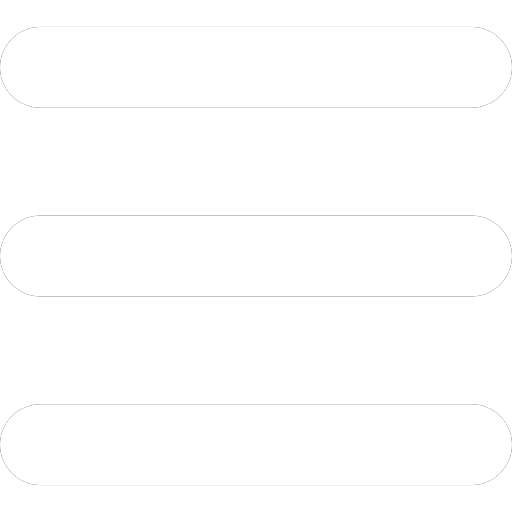
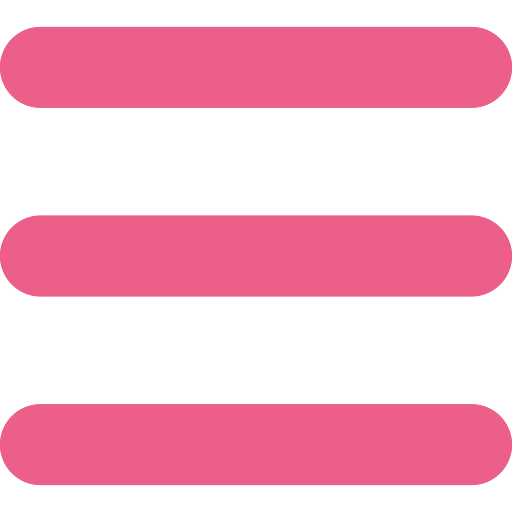
add new content and about page

diff --git a/_site/index.html b/_site/index.html
@@ -5,44 +5,41 @@
      <meta http-equiv="X-UA-Compatible" content="IE=edge">
      <meta name="viewport" content="width=device-width, initial-scale=1.0">
      <title>Katie Hoang's Portfolio</title>
-     <link rel="stylesheet" href="./css/style.css">
+     <link rel="stylesheet" href="../css/style.css">
      <link rel="icon" type="image/x-icon" href="image/moonWand.png">
 </head>
 <body>
      <header class="header">
           <span class="nav"></span>
-          <img src="./img/moonWand.png" alt="illustration of Star Protector">
-          <div class="menu">
-               <h1>ABOUT</h1>
-               <h1>PROJECTS</h1>
-               <h1>CONTACT</h1>
-          </div>
+<a class="homeBtn" href="../index.html"><span class="homeBtn"></span></a>
+<div class="menu">
+     <h1><a href="../about/index.html">ABOUT</a></h1>
+     <h1>PROJECTS</h1>
+     <h1>CONTACT</h1>
+</div>
      </header>
      <div class="main">
-            <div class="left">
-          <div class="left-1" id="1">
-               <h1>Star Protector</h1>
-          </div>
-          <div class="left-2" id="2">
-               <h1>Magical Wands</h1>
-          </div>
-          <div class="left-3" id="3">
-               <h1>Powerpuff Girls</h1>
-          </div>     
+          <div class="left">
+     <div class="left-1" id="1">
+          <h1>Star Protector</h1>
      </div>
-     <div class="right">
-          <div class="right-1" data-right="1">
-               <img src="./img/moonWand.png" alt="illustration of Star Protector">
-          </div>
-          <div class="right-2" data-right="2">
-               Item 2
-          </div>
-          <div class="right-3" data-right="3">
-               Item 3
-          </div>  
+     <div class="left-2" id="2">
+          <h1>Magical Wands</h1>
      </div>
+     <div class="left-3" id="3">
+          <h1>Powerpuff Girls</h1>
+     </div>     
+</div>
+<div class="right">
+     <div class="right-1" data-right="1">
+     </div>
+     <div class="right-2" data-right="2">
+     </div>
+     <div class="right-3" data-right="3">
+     </div>  
+</div>
 
      </div>
-     <script src="./js/script.js"></script>
+     <script src="../js/script.js"></script>
 </body>
 </html>

diff --git a/_site/css/style.css b/_site/css/style.css
@@ -8,7 +8,7 @@
   }
 body {
     font-family: Harlow, sans-serif;
-    color: #f98787;
+    color: #f2f2f3;
     margin: 0;
     background-color: black;
 }
@@ -73,14 +73,26 @@ h1{
     align-items: center;
 }
 
-.left-1, .right-1 {
-    background-color: #172760;
+.left-1{
+    background-color: #eb5f88;
 }
-.left-2, .right-2 {
-    background-color: #ECB448;
+.left-2{
+    background-color: #4cc7e5;
 }
-.left-3, .right-3 {
-    background-color: #788159;
+.left-3{
+    background-color: #9e7cb8;
+}
+.right-1{
+    background: url("../img/star.png") no-repeat 50% 10%;
+    background-size: 100% auto;
+}
+.right-2{
+    background: url("../img/squeak/squeakthumb.png") no-repeat 50% 10%;
+    background-size: 100% auto;
+}
+.right-3{
+    background: url("../img/magic/magicwand-01.jpg") no-repeat 50% 10%;
+    background-size: 100% auto;
 }
 
 
@@ -93,9 +105,6 @@ h1{
     transform: translateX(0);
 }
 
-.right-1 img{
-    height: 100%;
-}
 .nav{
     height: 2rem;
     width: 2rem;
@@ -104,9 +113,6 @@ h1{
     background-size: 100% auto;
     position: relative;
     z-index: 5;
-}
-.nav:hover{
-    background-color: aliceblue;
 }
 .nav.show{
     background:url("../img/x-mark.png") ;
@@ -130,7 +136,7 @@ to {top: -50%;}
     top: -50%;
     left: 50%;
     transform: translate(-50%, -50%);
-    background-color: aliceblue;
+    background-color: #000;
     font-size: 10em;
     z-index: 4;
 }
@@ -139,9 +145,6 @@ to {top: -50%;}
     width: fit-content;
     text-align: center;
 }
-.menu h1:hover{
-    color: aquamarine;
-}
 
 .menu.open{
     height: 100vh;
@@ -149,4 +152,26 @@ to {top: -50%;}
     left: 50%;
     transform: translate(-50%, -50%);
     animation: menuShow 1000ms ease-in;
+}
+
+a{
+    text-decoration: none;
+    color: #f2f2f3;
+}
+a:hover{
+    color: #4cc7e5;
+}
+.homeBtn{
+    height: 2rem;
+    width: 2rem;
+    cursor: pointer;
+    background:url("../img/moonWand.png") no-repeat;
+    background-size: 50% 100%;
+    position: relative;
+    z-index: 5;
+    margin: auto;
+}
+
+.left.about{
+    background:url("../img/aboutme.png") no-repeat;
 }

diff --git a/_src/css/style.css b/_src/css/style.css
@@ -8,7 +8,7 @@
   }
 body {
     font-family: Harlow, sans-serif;
-    color: #f98787;
+    color: #f2f2f3;
     margin: 0;
     background-color: black;
 }
@@ -73,14 +73,26 @@ h1{
     align-items: center;
 }
 
-.left-1, .right-1 {
-    background-color: #172760;
+.left-1{
+    background-color: #eb5f88;
 }
-.left-2, .right-2 {
-    background-color: #ECB448;
+.left-2{
+    background-color: #4cc7e5;
 }
-.left-3, .right-3 {
-    background-color: #788159;
+.left-3{
+    background-color: #9e7cb8;
+}
+.right-1{
+    background: url("../img/star.png") no-repeat 50% 10%;
+    background-size: 100% auto;
+}
+.right-2{
+    background: url("../img/squeak/squeakthumb.png") no-repeat 50% 10%;
+    background-size: 100% auto;
+}
+.right-3{
+    background: url("../img/magic/magicwand-01.jpg") no-repeat 50% 10%;
+    background-size: 100% auto;
 }
 
 
@@ -93,9 +105,6 @@ h1{
     transform: translateX(0);
 }
 
-.right-1 img{
-    height: 100%;
-}
 .nav{
     height: 2rem;
     width: 2rem;
@@ -104,9 +113,6 @@ h1{
     background-size: 100% auto;
     position: relative;
     z-index: 5;
-}
-.nav:hover{
-    background-color: aliceblue;
 }
 .nav.show{
     background:url("../img/x-mark.png") ;
@@ -130,7 +136,7 @@ to {top: -50%;}
     top: -50%;
     left: 50%;
     transform: translate(-50%, -50%);
-    background-color: aliceblue;
+    background-color: #000;
     font-size: 10em;
     z-index: 4;
 }
@@ -139,9 +145,6 @@ to {top: -50%;}
     width: fit-content;
     text-align: center;
 }
-.menu h1:hover{
-    color: aquamarine;
-}
 
 .menu.open{
     height: 100vh;
@@ -149,4 +152,26 @@ to {top: -50%;}
     left: 50%;
     transform: translate(-50%, -50%);
     animation: menuShow 1000ms ease-in;
+}
+
+a{
+    text-decoration: none;
+    color: #f2f2f3;
+}
+a:hover{
+    color: #4cc7e5;
+}
+.homeBtn{
+    height: 2rem;
+    width: 2rem;
+    cursor: pointer;
+    background:url("../img/moonWand.png") no-repeat;
+    background-size: 50% 100%;
+    position: relative;
+    z-index: 5;
+    margin: auto;
+}
+
+.left.about{
+    background:url("../img/aboutme.png") no-repeat;
 }

diff --git a/_site/about/index.html b/_site/about/index.html
@@ -1,0 +1,29 @@
+<!DOCTYPE html>
+<html lang="en">
+<head>
+     <meta charset="UTF-8">
+     <meta http-equiv="X-UA-Compatible" content="IE=edge">
+     <meta name="viewport" content="width=device-width, initial-scale=1.0">
+     <title>Katie Hoang's Portfolio</title>
+     <link rel="stylesheet" href="../css/style.css">
+     <link rel="icon" type="image/x-icon" href="image/moonWand.png">
+</head>
+<body>
+     <header class="header">
+          <span class="nav"></span>
+<a class="homeBtn" href="../index.html"><span class="homeBtn"></span></a>
+<div class="menu">
+     <h1><a href="../about/index.html">ABOUT</a></h1>
+     <h1>PROJECTS</h1>
+     <h1>CONTACT</h1>
+</div>
+     </header>
+     <div class="main">
+          <div class="left about">     
+</div>
+<div class="right">
+</div>
+     </div>
+     <script src="../js/script.js"></script>
+</body>
+</html>

diff --git a/_src/_includes/layout.html b/_src/_includes/layout.html
@@ -5,7 +5,7 @@
      <meta http-equiv="X-UA-Compatible" content="IE=edge">
      <meta name="viewport" content="width=device-width, initial-scale=1.0">
      <title>Katie Hoang's Portfolio</title>
-     <link rel="stylesheet" href="./css/style.css">
+     <link rel="stylesheet" href="../css/style.css">
      <link rel="icon" type="image/x-icon" href="image/moonWand.png">
 </head>
 <body>
@@ -15,6 +15,6 @@
      <div class="main">
           {{content}}
      </div>
-     <script src="./js/script.js"></script>
+     <script src="../js/script.js"></script>
 </body>
 </html>

diff --git a/_src/_includes/nav.html b/_src/_includes/nav.html
@@ -1,7 +1,7 @@
 <span class="nav"></span>
-          <img src="./img/moonWand.png" alt="illustration of Star Protector">
-          <div class="menu">
-               <h1>ABOUT</h1>
-               <h1>PROJECTS</h1>
-               <h1>CONTACT</h1>
-          </div>
+<a class="homeBtn" href="../index.html"><span class="homeBtn"></span></a>
+<div class="menu">
+     <h1><a href="../about/index.html">ABOUT</a></h1>
+     <h1>PROJECTS</h1>
+     <h1>CONTACT</h1>
+</div>

diff --git a/_src/index.md b/_src/index.md
@@ -1,27 +1,24 @@
 ---
 layout: layout.html
 ---
-  <div class="left">
-          <div class="left-1" id="1">
-               <h1>Star Protector</h1>
-          </div>
-          <div class="left-2" id="2">
-               <h1>Magical Wands</h1>
-          </div>
-          <div class="left-3" id="3">
-               <h1>Powerpuff Girls</h1>
-          </div>     
+<div class="left">
+     <div class="left-1" id="1">
+          <h1>Star Protector</h1>
      </div>
-     <div class="right">
-          <div class="right-1" data-right="1">
-               <img src="./img/moonWand.png" alt="illustration of Star Protector">
-          </div>
-          <div class="right-2" data-right="2">
-               Item 2
-          </div>
-          <div class="right-3" data-right="3">
-               Item 3
-          </div>  
+     <div class="left-2" id="2">
+          <h1>Magical Wands</h1>
      </div>
+     <div class="left-3" id="3">
+          <h1>Powerpuff Girls</h1>
+     </div>     
+</div>
+<div class="right">
+     <div class="right-1" data-right="1">
+     </div>
+     <div class="right-2" data-right="2">
+     </div>
+     <div class="right-3" data-right="3">
+     </div>  
+</div>
 
 

diff --git a/_src/about.md b/_src/about.md
@@ -1,0 +1,7 @@
+---
+layout: layout.html
+---
+<div class="left about">     
+</div>
+<div class="right">
+</div>
